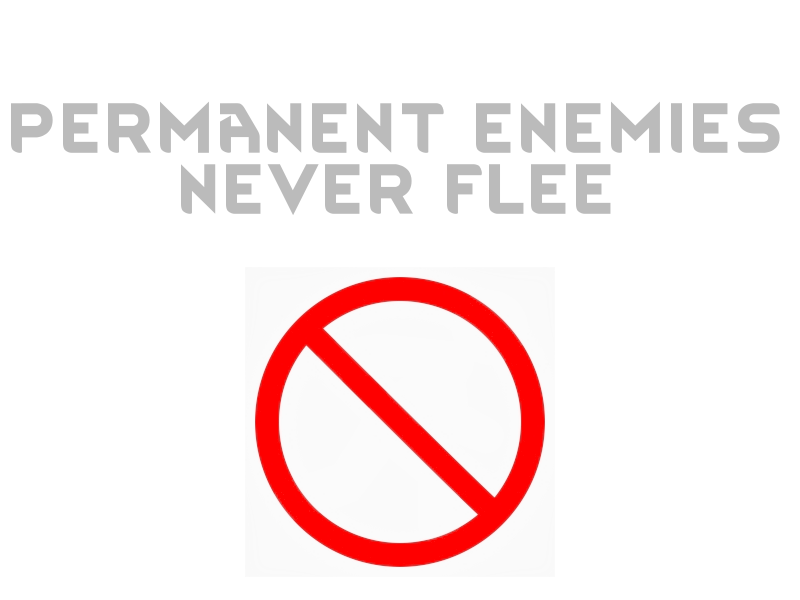
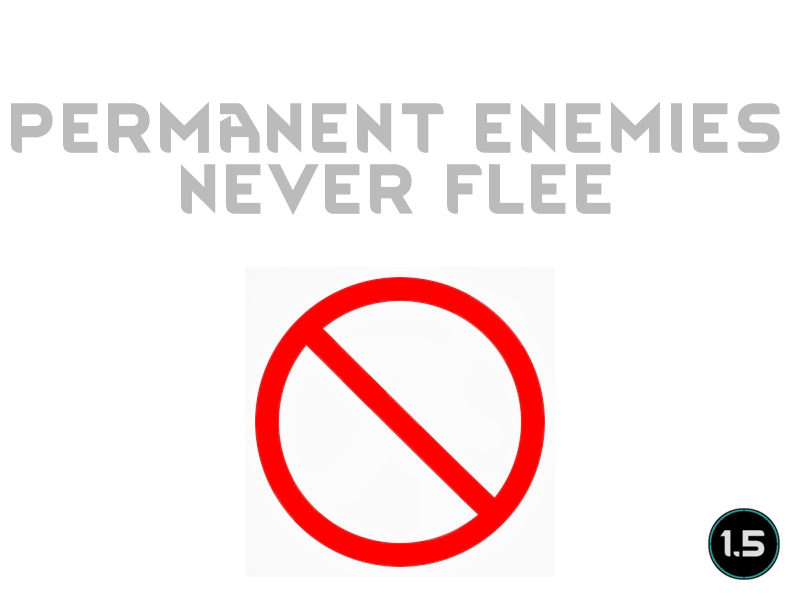
Mod updated for 1.5 and passed autotests

Changed region(s): [[0.875, 0.84, 1.0, 0.99]]

diff --git a/README.md b/README.md
@@ -1,30 +1,32 @@
 # PermanentEnemiesNeverFlee
 
-![Image](https://i.imgur.com/buuPQel.png)
+![Image](https://i.imgur.com/iCj5o7O.png)
 
 
 Just stops pawns from fleeing from combat if their faction is a permanent enemy of the colony
 
 Idea by: SublimeShark 
 	
-![Image](https://i.imgur.com/O0IIlYj.png)
+![Image](https://i.imgur.com/Ds0rBAD.png)
 
 Since modding is just a hobby for me I expect no donations to keep modding. If you still want to show your support you can gift me anything from my https://store.steampowered.com/wishlist/id/Mlie]Wishlist or buy me a cup of tea.
 
-https://ko-fi.com/G2G55DDYD]![Image](https://i.imgur.com/Utx6OIH.png)
+https://ko-fi.com/G2G55DDYD]![Image](https://i.imgur.com/VWG0yff.png)
 
 
-![Image](https://i.imgur.com/PwoNOj4.png)
+![Image](https://i.imgur.com/5xwDG6H.png)
 
 
 
 -  See if the the error persists if you just have this mod and its requirements active.
 -  If not, try adding your other mods until it happens again.
--  Post your error-log using https://steamcommunity.com/workshop/filedetails/?id=818773962]HugsLib and command Ctrl+F12
+-  Post your error-log using https://steamcommunity.com/workshop/filedetails/?id=818773962]HugsLib or the standalone https://steamcommunity.com/sharedfiles/filedetails/?id=2873415404]Uploader and command Ctrl+F12
 -  For best support, please use the Discord-channel for error-reporting.
 -  Do not report errors by making a discussion-thread, I get no notification of that.
 -  If you have the solution for a problem, please post it to the GitHub repository.
+-  Use https://github.com/RimSort/RimSort/releases/latest]RimSort to sort your mods
 
 
 
+https://steamcommunity.com/sharedfiles/filedetails/changelog/2469532299]![Image](https://img.shields.io/github/v/release/emipa606/PermanentEnemiesNeverFlee?label=latest%20version&style=plastic&labelColor=0070cd&color=white)
 
